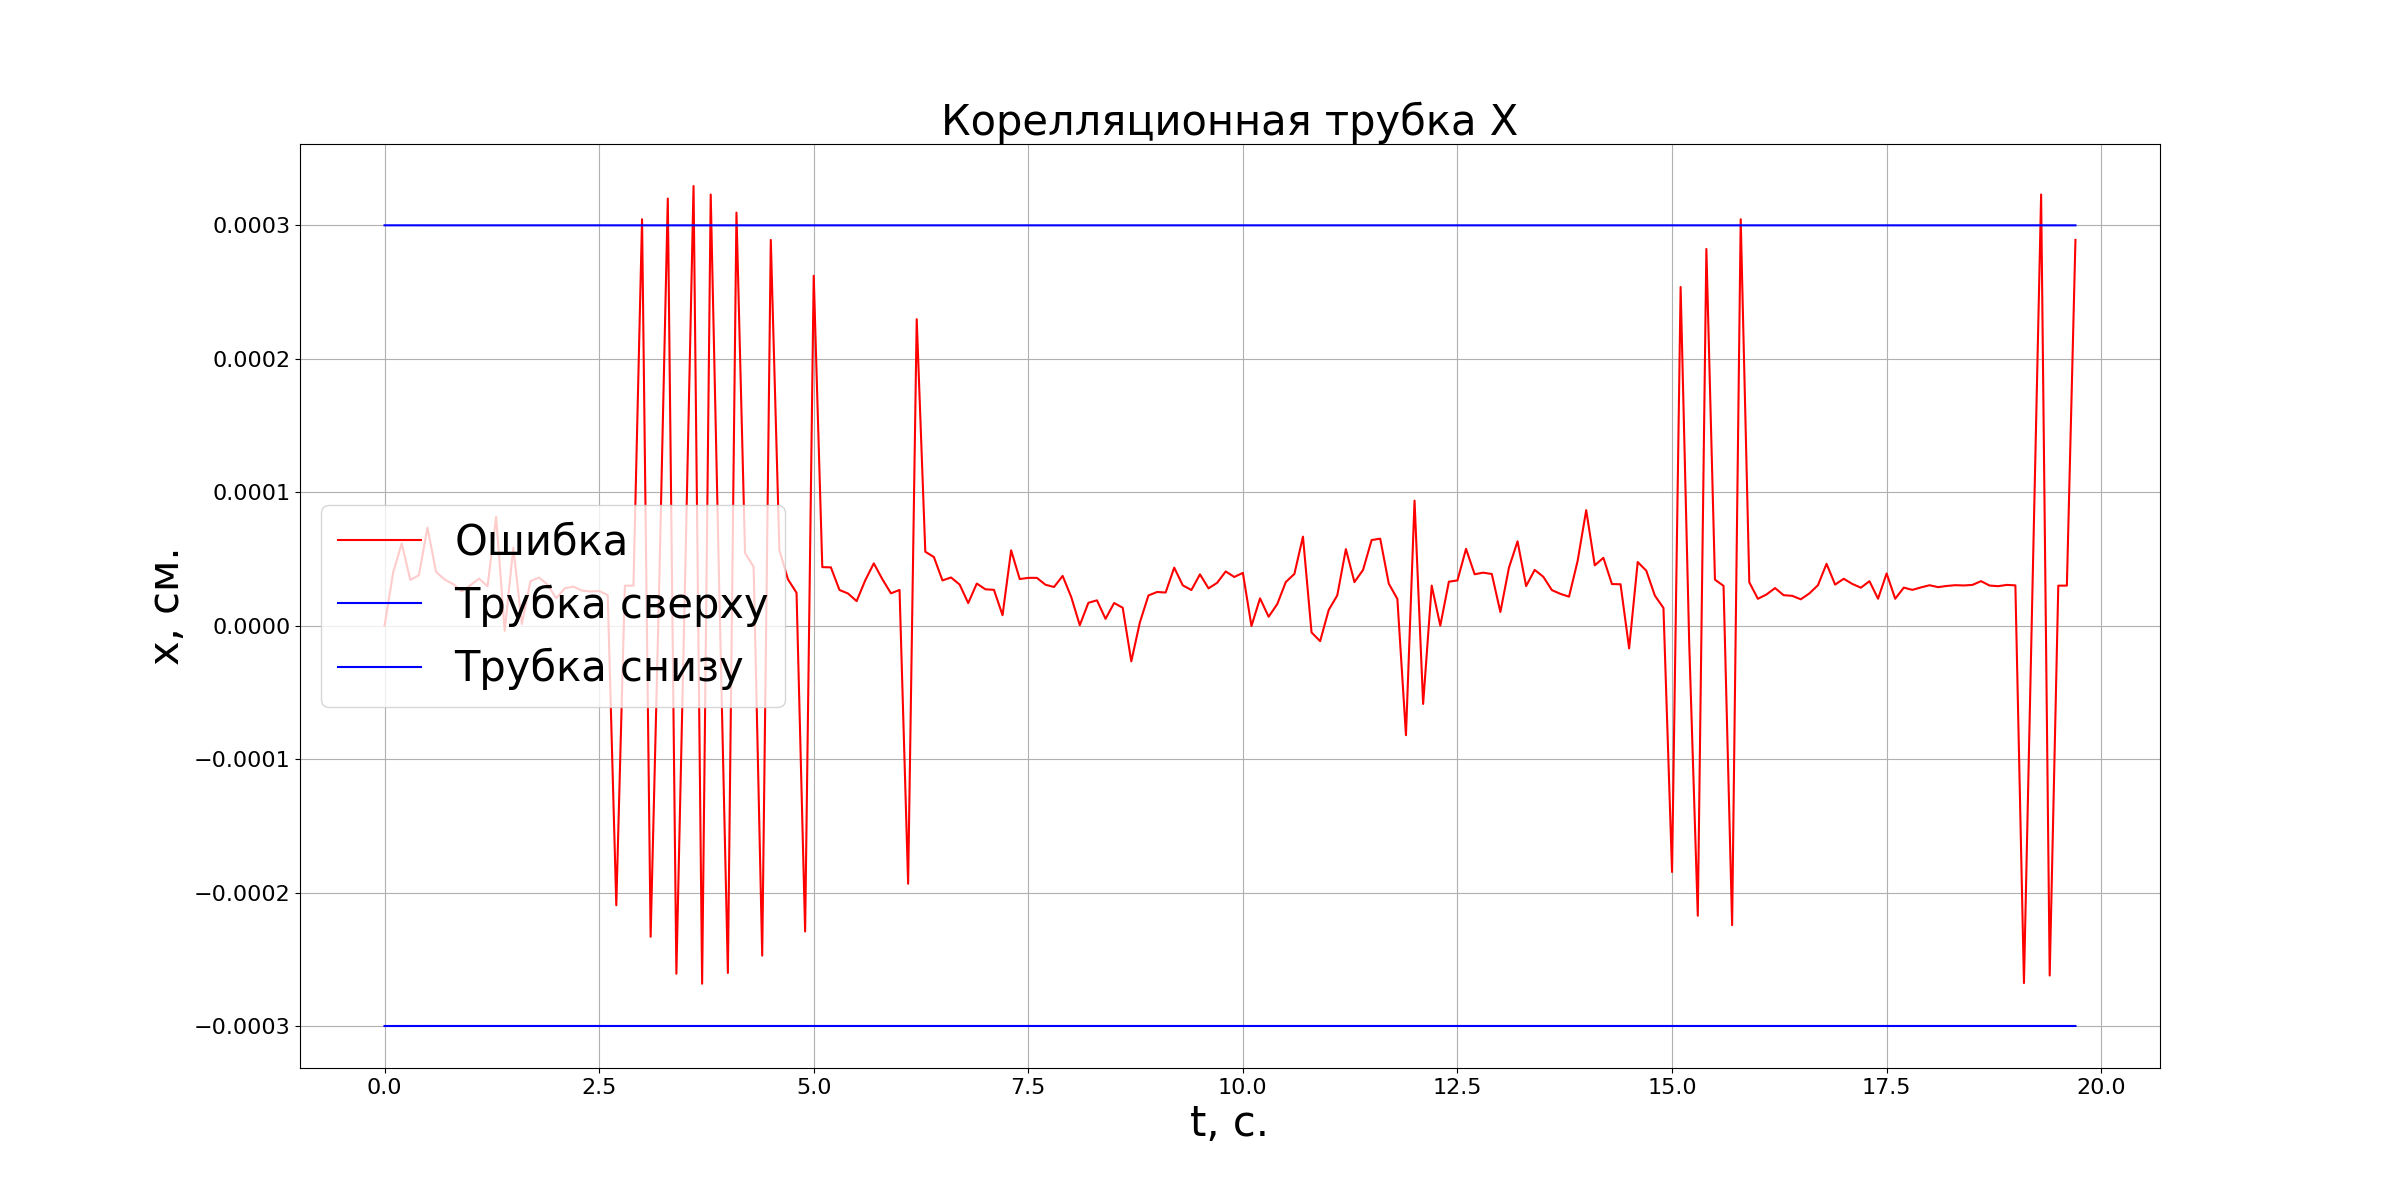
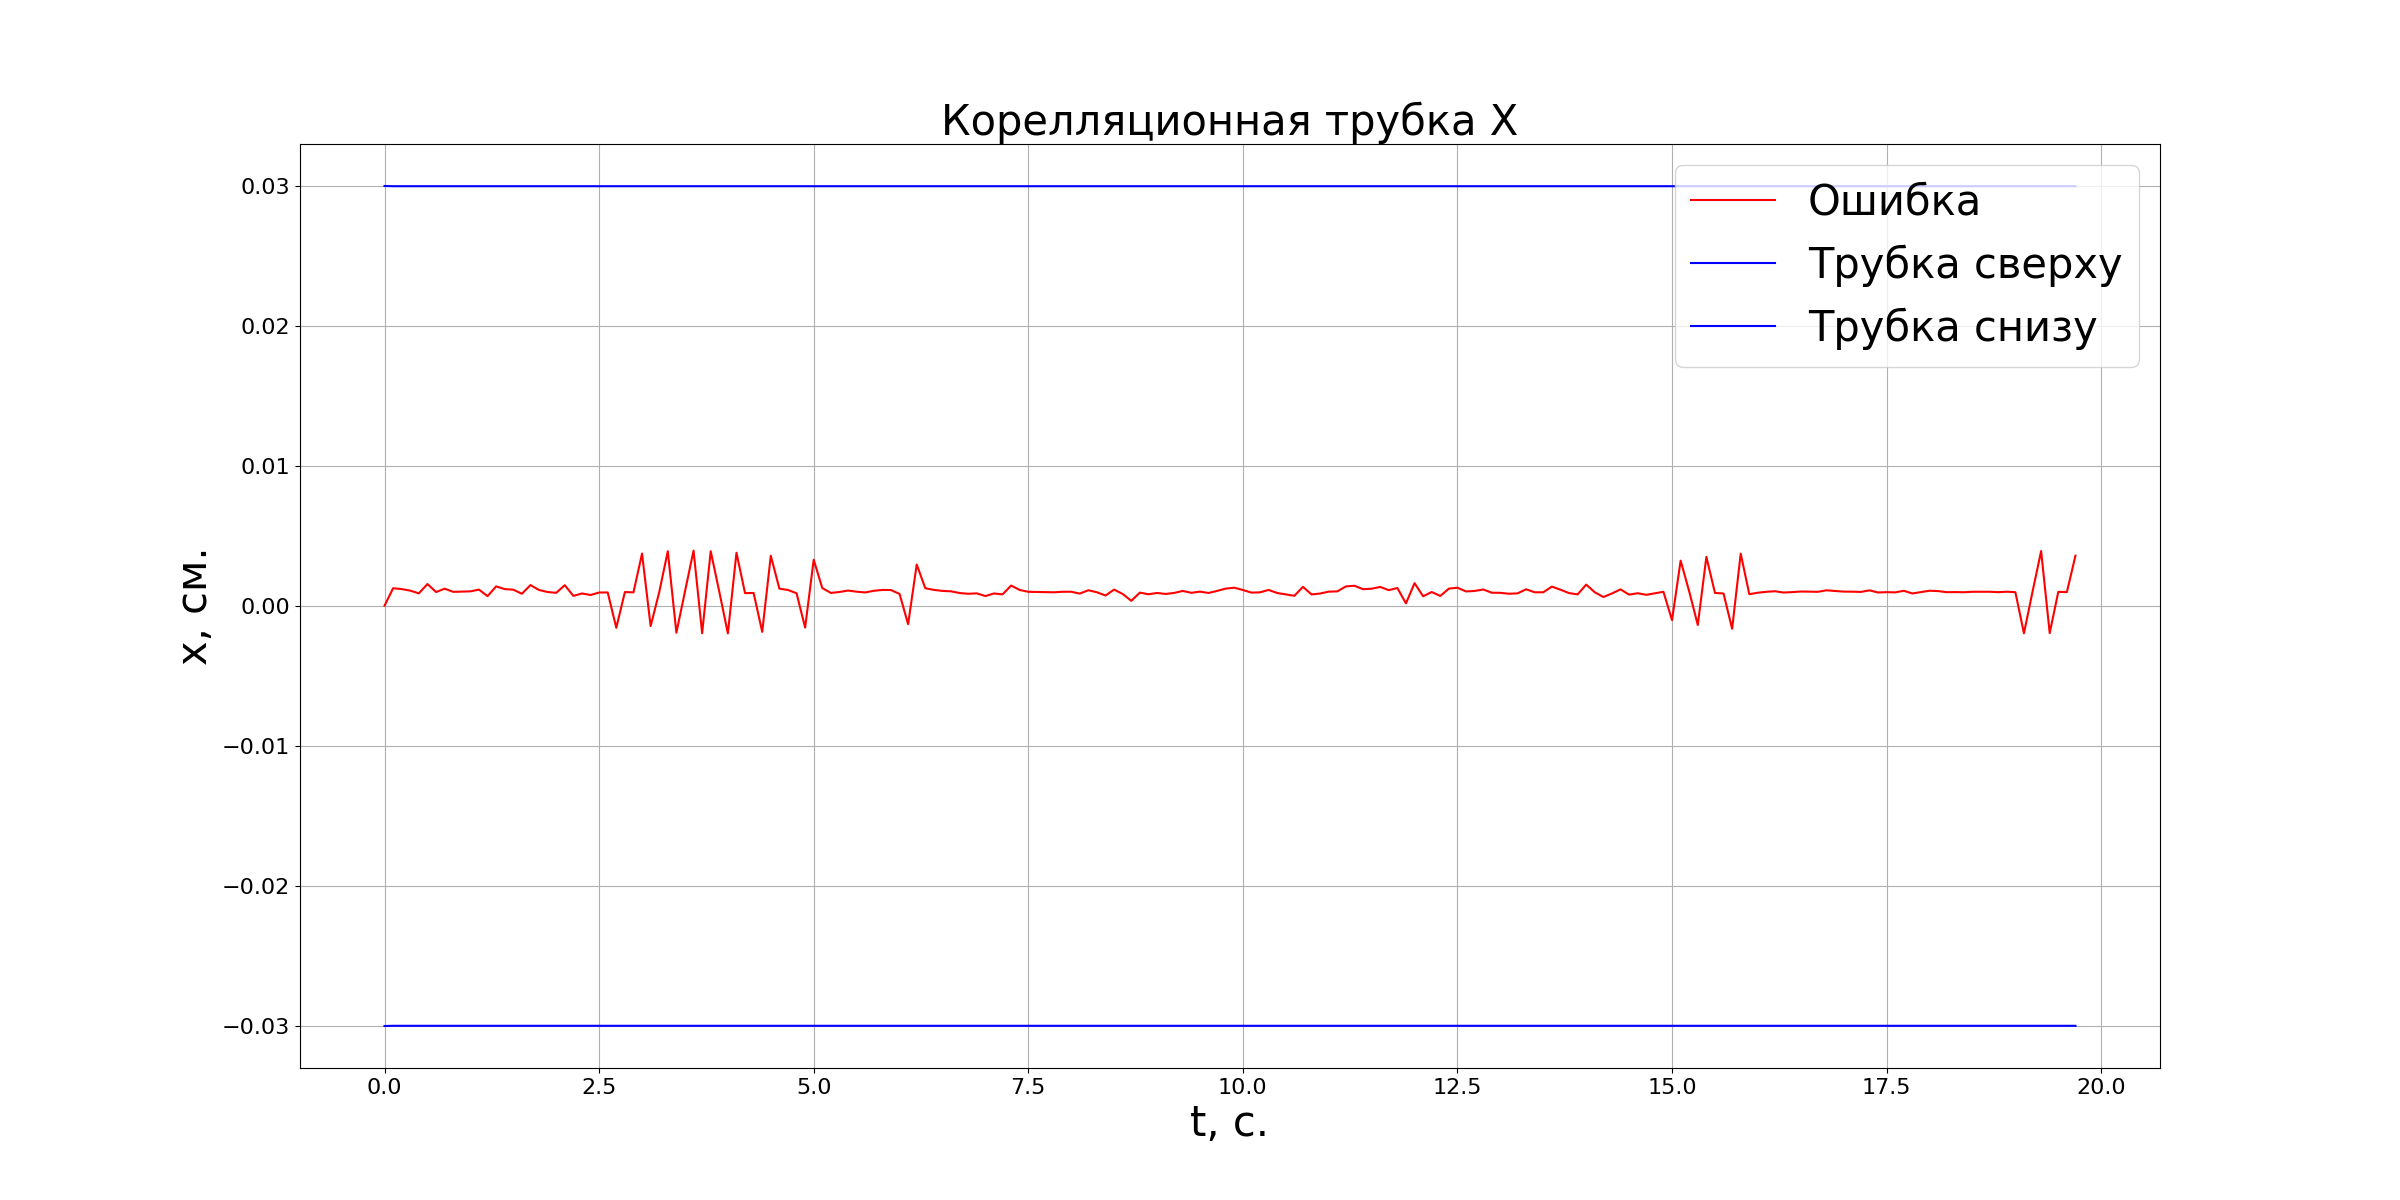
Update FK

diff --git a/Model.py b/Model.py
@@ -42,17 +42,17 @@ class Model:
 
         #ошибки измерений
         self.__Dn=np.asarray([
-            [0.00000001,0,0.],
-            [0,0.00000001,0.],
+            [0.0001,0,0.],
+            [0,0.0001,0.],
             [0,0,0.01],
         ])
 
         self.__Dn2=np.asarray([
-            [0.00000001,0,0,0,0],
-            [0,0.00000001,0,0,0],
+            [0.0001,0,0,0,0],
+            [0,0.0001,0,0,0],
             [0,0,0.01,0,0],
-            [0,0,0.,1.,0],
-            [0.,0.,0.,0.,1.]
+            [0,0,0.,9.,0],
+            [0.,0.,0.,0.,9.]
         ])
 
         #матрица наблюдения
@@ -88,6 +88,8 @@ class Model:
         
     def AddQrCode(self,qrCode:List[QrCode]):
         self.__qr=qrCode
+
+    
 
     def Control(self,dt,d1,d2,d3,__x,__y,__wz):
         """Управляющие элементы"""
@@ -295,8 +297,8 @@ class Model:
             else:
                 metka="bins"
 
-            __x=self.__x+t0*3#+random.normal(0,0.01)
-            __y=self.__y+t0*3#+random.normal(0,0.01)
+            __x=self.__x+t0*10+random.normal(0,0.01)
+            __y=self.__y+t0*10+random.normal(0,0.01)
                     
             __wz=self.__wz+random.normal(0,0.1)
             __d1=resultD1
@@ -324,7 +326,7 @@ class Model:
                 break
 
 
-    def Prediction(self,U,dt,t):
+    def Prediction(self,U,dt,t,metka):
         if t>dt:
             F=np.asarray([
                 [1.,0.,0, 0., 0.,0.,0, 0., 0.],
@@ -337,8 +339,8 @@ class Model:
                 [0.,0.,0.,0.,1.,0.,0, 0., 0],
                 [0.,0.,0.,0.,0.,1.,0, 0., 0],
 
-                [1/(t/dt)/dt,0,0.,0.,-1/(t/dt)/dt,0.,0, 0., 0],
-                [0.,1/(t/dt)/dt,0.,0.,0.,-1/(t/dt)/dt,0, 0., 0],
+                [0.5/(t/dt)/dt,0,0.,0.,-0.5/(t/dt)/dt,0.,0, 0.5, 0],
+                [0.,0.5/(t/dt)/dt,0.,0.,0.,-0.5/(t/dt)/dt,0, 0., 0.5],
                 ],dtype=float)
         else:
             F=np.asarray([
@@ -352,23 +354,35 @@ class Model:
                 [0.,0.,0.,0.,1.,0.,0, 0., 0],
                 [0.,0.,0.,0.,0.,1.,0, 0., 0],
 
-                [dt,0,0.,0.,-dt,0.,0, 0., 0],
-                [0.,dt,0.,0.,0.,-dt,0, 0., 0],
+                [dt*0.5,0,0.,0.,-dt*0.5,0.,0, 0.5, 0],
+                [0.,dt*0.5,0.,0.,0.,-dt*0.5,0, 0., 0.5],
                 ],dtype=float)
 
 
-
+      
         De=np.asarray([
-            [0.0001,0,0,0,0,0,0,0,0],
-            [0,0.0001,0,0,0,0,0,0,0],
-            [0,0,0.01,0,0,0,0,0,0],
+            [dt,0,0,0,0,0,0,0,0],
+            [0,dt,0,0,0,0,0,0,0],
+            [0,0,dt*dt,0,0,0,0,0,0],
+            [0,0,0,9*dt,0,0,0,0,0],
+            [0,0,0,0,9*dt,0,0,0,0],
             [0,0,0,0,0,0,0,0,0],
             [0,0,0,0,0,0,0,0,0],
-            [0,0,0,0,0,3,0,0,0],
-            [0,0,0,0,0,0,3,0,0],
-            [0,0,0,0,0,0,0,0.01,0],
-            [0,0,0,0,0,0,0,0,0.01],
+            [0,0,0,0,0,0,0,0,0],
+            [0,0,0,0,0,0,0,0,0],
         ])
+        # else:
+        #     De=np.asarray([
+        #     [dt,0,0,0,0,0,0,0,0],
+        #     [0,dt,0,0,0,0,0,0,0],
+        #     [0,0,dt*dt,0,0,0,0,0,0],
+        #     [0,0,0,9*dt,0,0,0,0,0],
+        #     [0,0,0,0,9*dt,0,0,0,0],
+        #     [0,0,0,0,0,0,0,0,0],
+        #     [0,0,0,0,0,0,0,0,0],
+        #     [0,0,0,0,0,0,0,0,0],
+        #     [0,0,0,0,0,0,0,0,0],
+        #     ])
 
         self.__x_p[0]=self.__x_c[0]+U[0]*cos(self.__x_c[2]+U[1])*dt
         self.__x_p[1]=self.__x_c[1]+U[0]*sin(self.__x_c[2]+U[1])*dt
@@ -381,21 +395,18 @@ class Model:
         self.__x_p[6]=self.__x_c[6]+U[0]*sin(self.__x_c[2]+U[1])*dt
 
         if t>dt:
-            self.__x_p[7]=(self.__x_c[0]-self.__x_c[5])/(t/dt)/dt
-            self.__x_p[8]=(self.__x_c[1]-self.__x_c[6])/(t/dt)/dt
+            self.__x_p[7]=(self.__x_c[7]+(self.__x_c[0]-self.__x_c[5])/(t/dt)/dt)/2.
+            self.__x_p[8]=(self.__x_c[8]+(self.__x_c[1]-self.__x_c[6])/(t/dt)/dt)/2.
         else:
-            self.__x_p[7]=(self.__x_c[0]-self.__x_c[5])*dt
-            self.__x_p[8]=(self.__x_c[1]-self.__x_c[6])*dt
+            self.__x_p[7]=(self.__x_c[7]+(self.__x_c[0]-self.__x_c[5])*dt)/2
+            self.__x_p[8]=(self.__x_c[8]+(self.__x_c[1]-self.__x_c[6])*dt)/2
 
 
         self.__p_p=np.dot(np.dot(F,self.__p_c),np.transpose(F))+De
 
 
     def Correction(self,Y,metka):
-        # L=self.GetLambda(self.__cT)
-        # L_t=np.transpose(L)
 
-        # De=np.dot(np.dot(L,self.__Dn),L_t)
         if metka=="bins":
             __H=self.__H
             invDe=LA.inv(self.__Dn)
@@ -413,12 +424,6 @@ class Model:
     
         self.__x_c=(self.__x_p+np.dot(mult,subl))
 
-    # def GetLambda(self,coeff):
-    #         return np.asarray([
-    #         [1,0,0],
-    #         [0,1,0],
-    #         [0,0,1.]
-    # ])
 
 
     def FilterKalman(self,dt):
@@ -427,8 +432,8 @@ class Model:
         alpha=tan(atan2((position[1]-self.__initY),(position[0]-self.__initX)))
         self.__wz=alpha
 
-        self.__x_p[0]=self.__initX-3
-        self.__x_p[1]=self.__initY-3
+        self.__x_p[0]=self.__initX
+        self.__x_p[1]=self.__initY
         self.__x_p[2]=self.__wz
         self.__x_p[3]=self.__x_p[0]
         self.__x_p[4]=self.__x_p[1]
@@ -483,7 +488,7 @@ class Model:
             #     coeff=8
             # elif k1==0:
             #     coeff=self.__cT*8
-            self.Prediction(U,newDt,Data[0])
+            self.Prediction(U,newDt,Data[0],Data[1])
             
             
             

diff --git a/Main.py b/Main.py
@@ -93,14 +93,15 @@ rx=[]
 ry=[]
 kx=[]
 ky=[]
+
 for j in model.RealData:
     t.append(j[0])
     x.append(j[1])
     y.append(j[2])
     rx.append(j[4])
     ry.append(j[5])
-    kx.append(3)
-    ky.append(3)
+    kx.append(10)
+    ky.append(10)
 
 xi=[]
 yi=[]
@@ -116,11 +117,15 @@ rxfk=[]
 ryfk=[]
 kxfk=[]
 kyfk=[]
+qrxfk=[]
+qryfk=[]
 for j in model.Result:
     xfk.append(j[1])
     yfk.append(j[2])
     rxfk.append(j[4])
     ryfk.append(j[5])
+    qrxfk.append(j[6])
+    qryfk.append(j[7])
     kxfk.append(j[8])
     kyfk.append(j[9])
 
@@ -129,12 +134,20 @@ p_y=[]
 p_a=[]
 p_rx=[]
 p_ry=[]
+p_kx=[]
+p_ky=[]
+p_qrx=[]
+p_qry=[]
 for p in model.P:
     p_x.append(p[1])
     p_y.append(p[2])
     p_a.append(p[3])
     p_rx.append(p[4])   
-    p_ry.append(p[5])    
+    p_ry.append(p[5])
+    p_qrx.append(p[6])
+    p_qry.append(p[7])
+    p_kx.append(p[8])   
+    p_ky.append(p[9])    
 
 plt.figure(figsize=(24,12))
 plt.rc('axes', labelsize=30)
@@ -147,6 +160,7 @@ plt.ylabel("y, см.") # ось ординат
 plt.grid()      # включение отображение сетки
 plt.plot(t, ry,'r',label="Реальное значение траектории")  # построение графика
 plt.plot(t, ryfk,'b',label="Результат - ФК")  # построение графика
+plt.plot(t, y,'g',label="БИНС")  # построение графика
 #plt.plot(t, yi,'g',label="Результат измерения- ФК")  # построение графика
 plt.legend(loc=0)
 plt.savefig('Траектория движения Y')
@@ -276,5 +290,68 @@ plt.plot(t, kyfk,'b',label="Результат - ФК")  # построение 
 #plt.plot(t, yi,'g',label="Результат измерения- ФК")  # построение графика
 plt.legend(loc=0)
 plt.savefig('K2')
+
+plt.figure(figsize=(24,12))
+plt.rc('axes', labelsize=30)
+plt.rc('axes',titlesize=30)
+plt.rc('legend', fontsize=30)
+plt.tick_params(axis='both', which='major', labelsize=16)
+plt.title("Корелляционная трубка K1") # заголовок
+plt.xlabel("t, с.") # ось абсцисс
+plt.ylabel("K1") # ось ординат
+plt.grid()      # включение отображение сетки
+plt.plot(t, np.asarray(kx)-np.asarray(kxfk),'r',label="Ошибка")  # построение графика
+plt.plot(t, np.sqrt(p_kx)*3,'b',label="Трубка сверху")  # построение графика
+plt.plot(t, -np.sqrt(np.asarray(p_kx))*3,'b',label="Трубка снизу")  # построение графика
+plt.legend(loc=0)
+plt.savefig('Корелляционная трубка K1')
+
+plt.figure(figsize=(24,12))
+plt.rc('axes', labelsize=30)
+plt.rc('axes',titlesize=30)
+plt.rc('legend', fontsize=30)
+plt.tick_params(axis='both', which='major', labelsize=16)
+plt.title("Корелляционная трубка K2") # заголовок
+plt.xlabel("t, с.") # ось абсцисс
+plt.ylabel("K2") # ось ординат
+plt.grid()      # включение отображение сетки
+plt.plot(t, np.asarray(ky)-np.asarray(kyfk),'r',label="Ошибка")  # построение графика
+plt.plot(t, np.sqrt(p_ky)*3,'b',label="Трубка сверху")  # построение графика
+plt.plot(t, -np.sqrt(np.asarray(p_ky))*3,'b',label="Трубка снизу")  # построение графика
+plt.legend(loc=0)
+plt.savefig('Корелляционная трубка K2')
+
+
+
+plt.figure(figsize=(24,12))
+plt.rc('axes', labelsize=30)
+plt.rc('axes',titlesize=30)
+plt.rc('legend', fontsize=30)
+plt.tick_params(axis='both', which='major', labelsize=16)
+plt.title("Корелляционная трубка Qr X") # заголовок
+plt.xlabel("t, с.") # ось абсцисс
+plt.ylabel("x, см") # ось ординат
+plt.grid()      # включение отображение сетки
+plt.plot(t, np.asarray(rx)-np.asarray(qrxfk),'r',label="Ошибка")  # построение графика
+plt.plot(t, np.sqrt(p_qrx)*3,'b',label="Трубка сверху")  # построение графика
+plt.plot(t, -np.sqrt(np.asarray(p_qrx))*3,'b',label="Трубка снизу")  # построение графика
+plt.legend(loc=0)
+plt.savefig('Корелляционная трубка Qr X')
+
+plt.figure(figsize=(24,12))
+plt.rc('axes', labelsize=30)
+plt.rc('axes',titlesize=30)
+plt.rc('legend', fontsize=30)
+plt.tick_params(axis='both', which='major', labelsize=16)
+plt.title("Корелляционная трубка Qr Y") # заголовок
+plt.xlabel("t, с.") # ось абсцисс
+plt.ylabel("y, см") # ось ординат
+plt.grid()      # включение отображение сетки
+plt.plot(t, np.asarray(ry)-np.asarray(qryfk),'r',label="Ошибка")  # построение графика
+plt.plot(t, np.sqrt(p_qry)*3,'b',label="Трубка сверху")  # построение графика
+plt.plot(t, -np.sqrt(np.asarray(p_qry))*3,'b',label="Трубка снизу")  # построение графика
+plt.legend(loc=0)
+plt.savefig('Корелляционная трубка Qr Y')
+
 
 sys.exit(app.exec())
